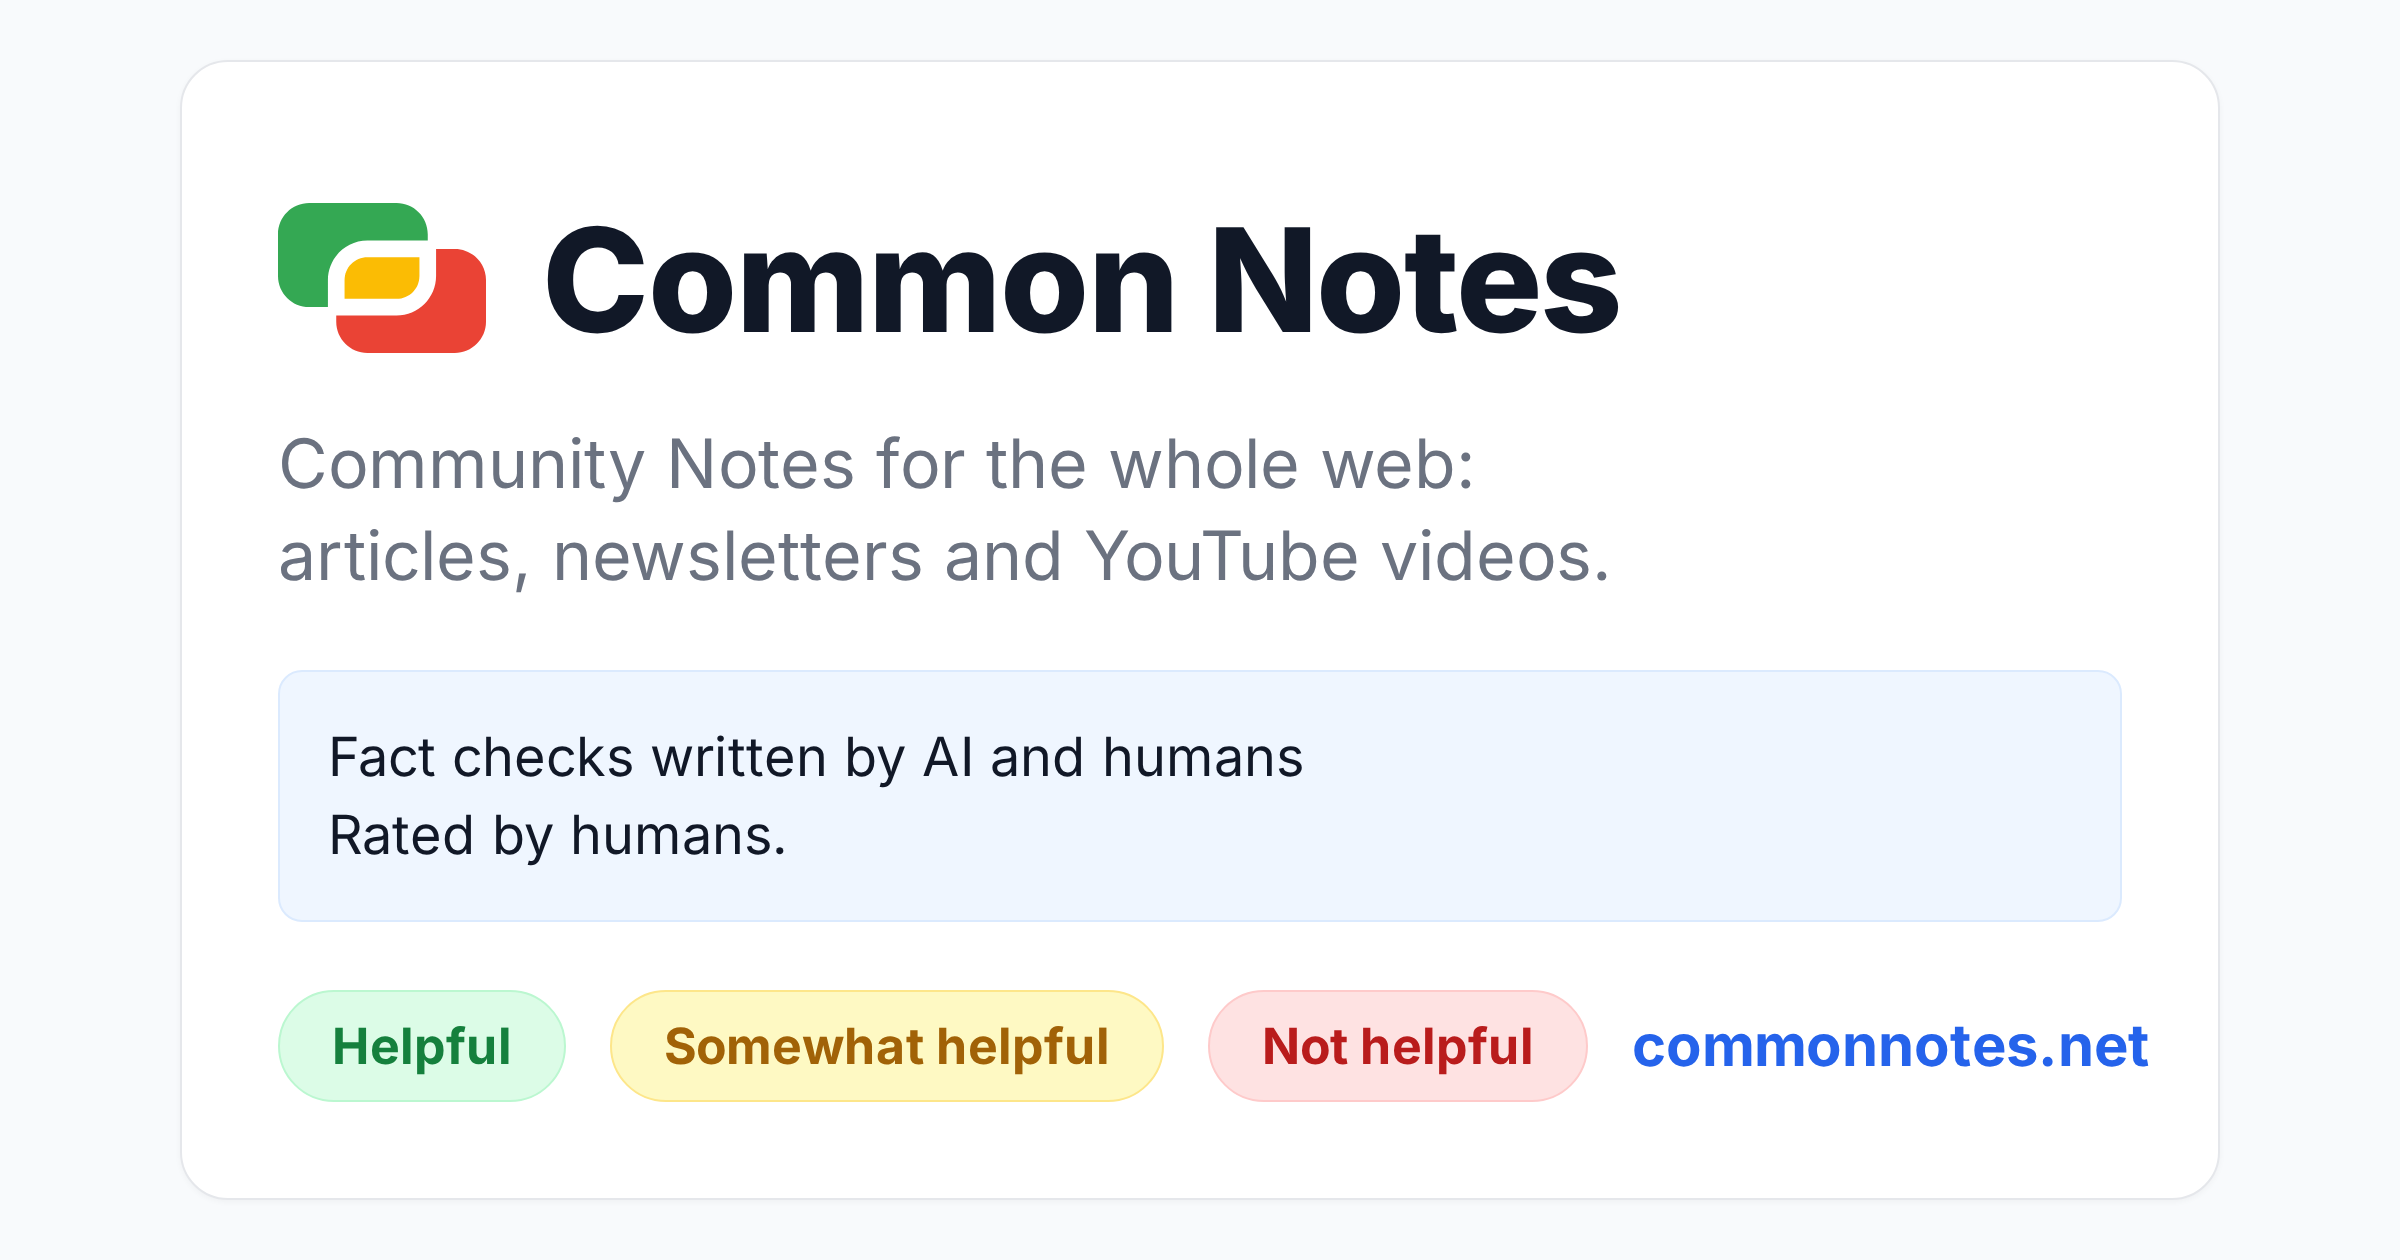
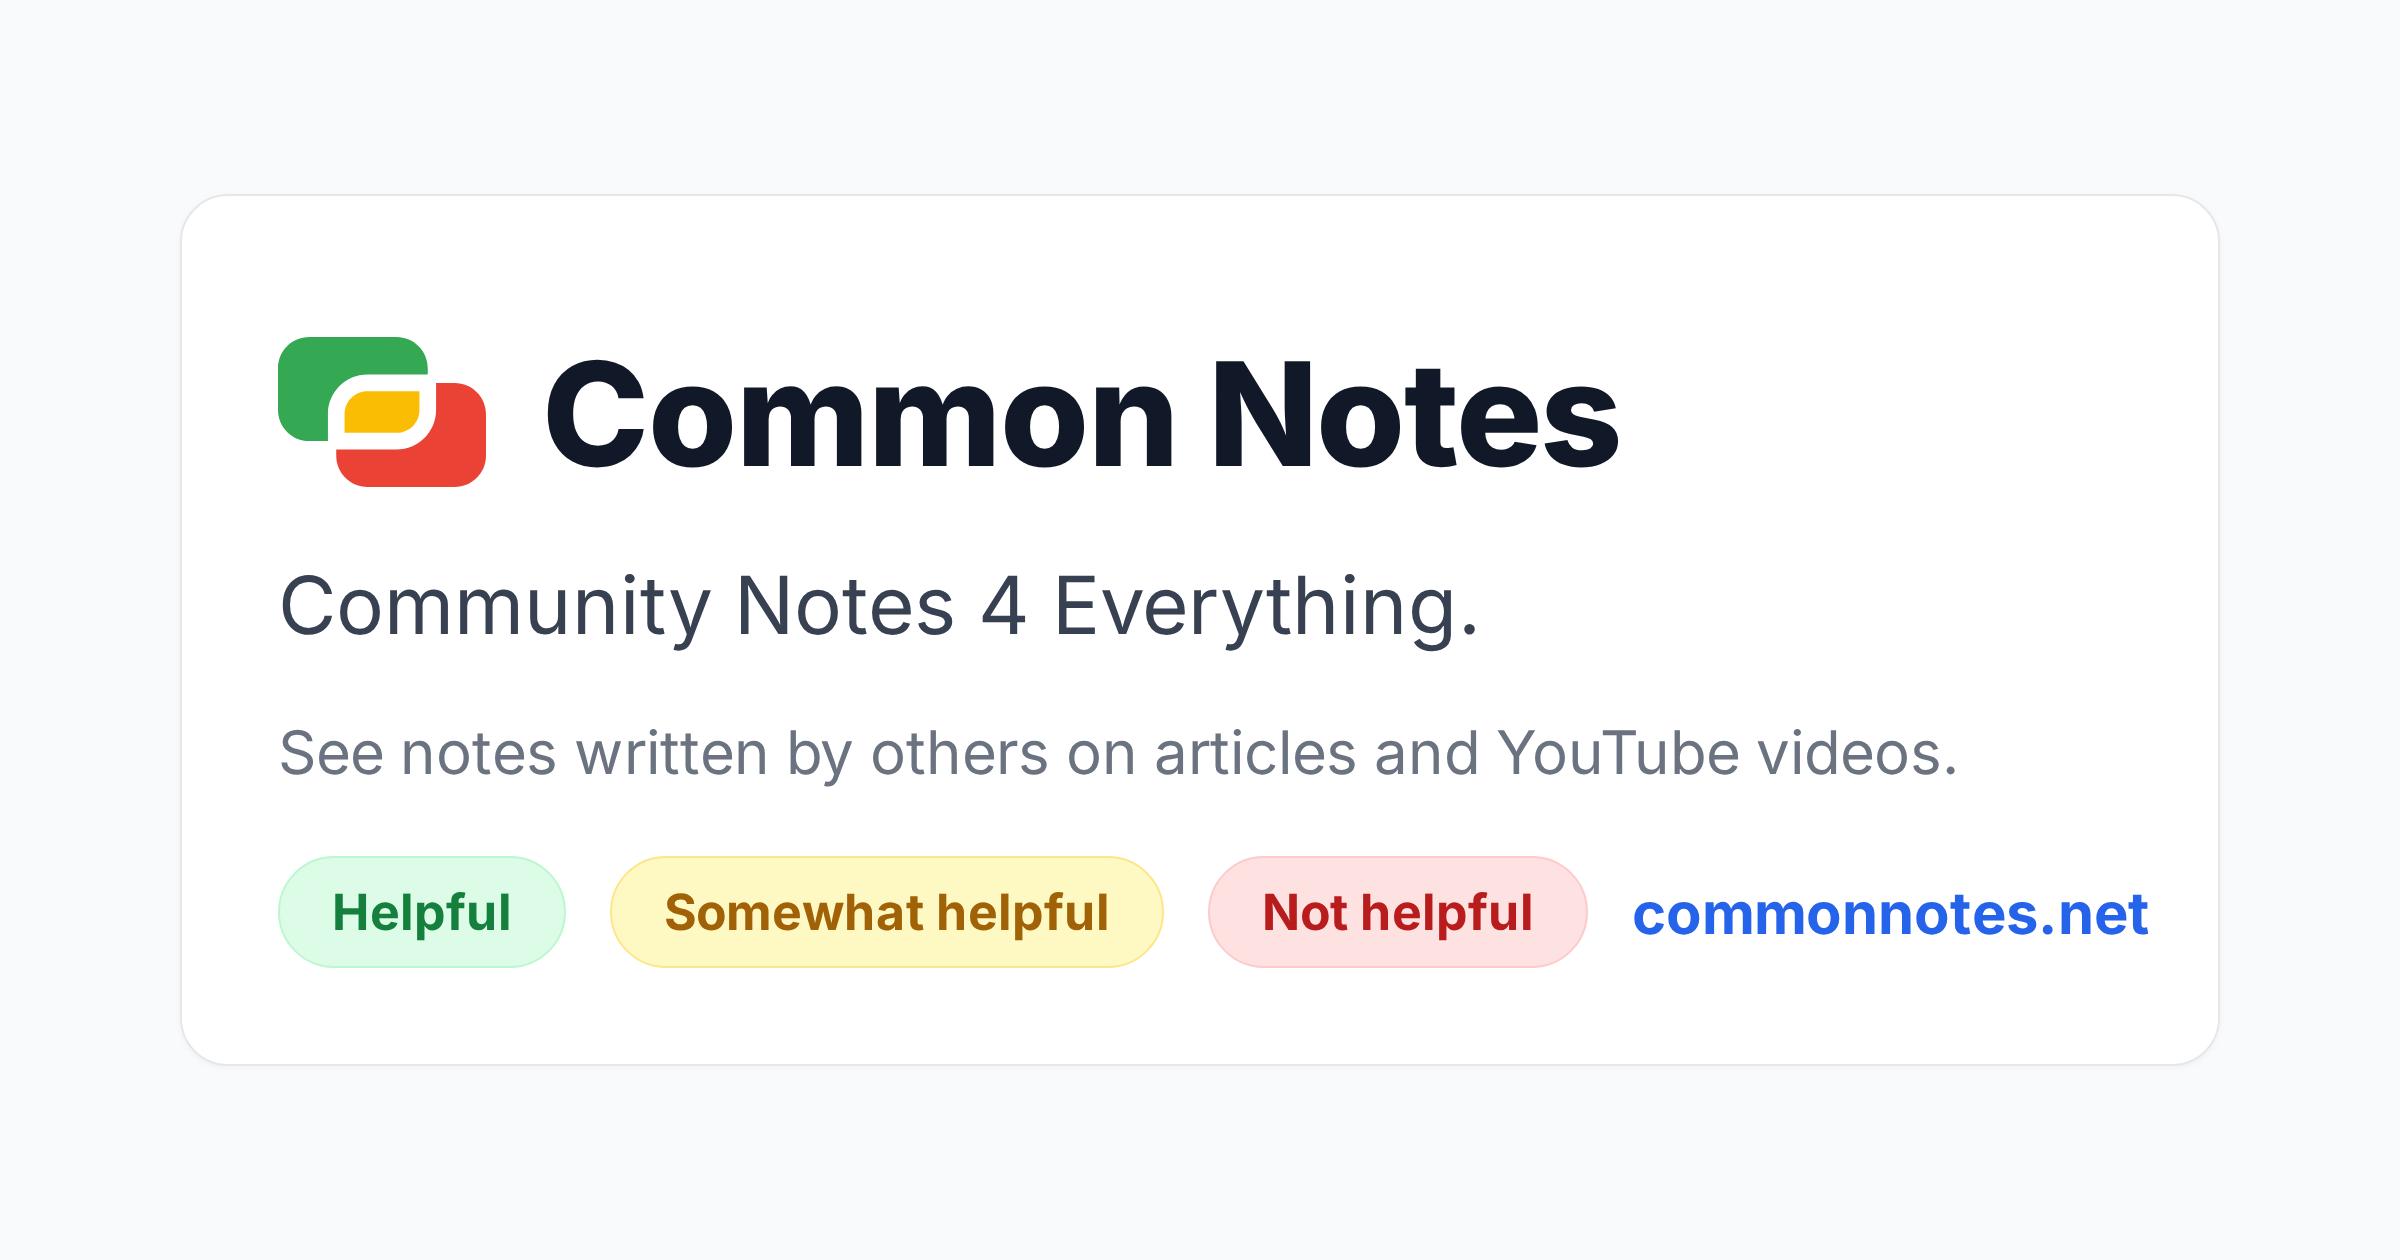
Use the homepage's headline and pitch for the search result and link preview

Changed region(s): [[0.0938, 0.1548, 0.6875, 0.5262], [0.0938, 0.65, 0.9062, 0.8976], [0.0938, 0.5881, 0.8125, 0.619]]

diff --git a/src/everything-web/og-card.html b/src/everything-web/og-card.html
@@ -26,16 +26,8 @@
   .title { display: flex; align-items: center; gap: 28px; }
   .title img { width: 104px; height: 104px; }
   h1 { font-size: 72px; font-weight: 800; color: #111827; letter-spacing: -1px; }
-  .sub { font-size: 34px; color: #6b7280; margin-top: 18px; line-height: 1.35; }
-  .note {
-    margin-top: 34px;
-    background: #eff6ff;
-    border: 1px solid #dbeafe;
-    border-radius: 12px;
-    padding: 26px 24px;
-  }
-  .note .hdr { font-size: 27px; font-weight: 400; color: #111827; }
-  .note .body { font-size: 27px; font-weight: 400; color: #111827; margin-top: 6px; }
+  .sub { font-size: 40px; color: #374151; margin-top: 18px; line-height: 1.35; }
+  .pitch { font-size: 30px; color: #6b7280; margin-top: 28px; }
   .row { margin-top: 34px; display: flex; align-items: center; }
   .pill {
     font-size: 25px; font-weight: 700; white-space: nowrap;
@@ -50,11 +42,8 @@
 <body>
   <div class="card">
     <div class="title"><img src="../everything-ui/assets/logo.svg" alt=""><h1>Common Notes</h1></div>
-    <div class="sub">Community Notes for the whole web:<br>articles, newsletters and YouTube videos.</div>
-    <div class="note">
-      <div class="hdr">Fact checks written by AI and humans</div>
-      <div class="body">Rated by humans.</div>
-    </div>
+    <div class="sub">Community Notes 4 Everything.</div>
+    <div class="pitch">See notes written by others on articles and YouTube videos.</div>
     <div class="row">
       <span class="pill helpful">Helpful</span>
       <span class="pill somewhat">Somewhat helpful</span>

diff --git a/src/everything-web/index.html b/src/everything-web/index.html
@@ -7,10 +7,12 @@
 <head>
   <meta charset="UTF-8" />
   <meta name="viewport" content="width=device-width, initial-scale=1.0" />
-  <title>Common Notes: Community Notes for the whole web</title>
-  <meta name="description" content="Common Notes brings Community Notes to the whole web. A browser extension shows notes written by people and AI on articles, newsletters and YouTube videos, and readers rate which notes are helpful." />
+  <!-- The title, the description and the link preview text repeat the
+       homepage's headline and pitch (pages/home/content.ts). -->
+  <title>Common Notes: Community Notes 4 Everything</title>
+  <meta name="description" content="Common Notes is a Community Notes–inspired system that brings this feature to the whole web. See notes written by others on articles and YouTube videos." />
   <meta property="og:title" content="Common Notes" />
-  <meta property="og:description" content="Community Notes for the whole web: articles, newsletters and YouTube videos. Notes by people and AI, rated by readers." />
+  <meta property="og:description" content="Common Notes is a Community Notes–inspired system that brings this feature to the whole web. See notes written by others on articles and YouTube videos." />
   <meta property="og:type" content="website" />
   <meta property="og:url" content="https://commonnotes.net/" />
   <meta property="og:image" content="https://commonnotes.net/og.png" />
